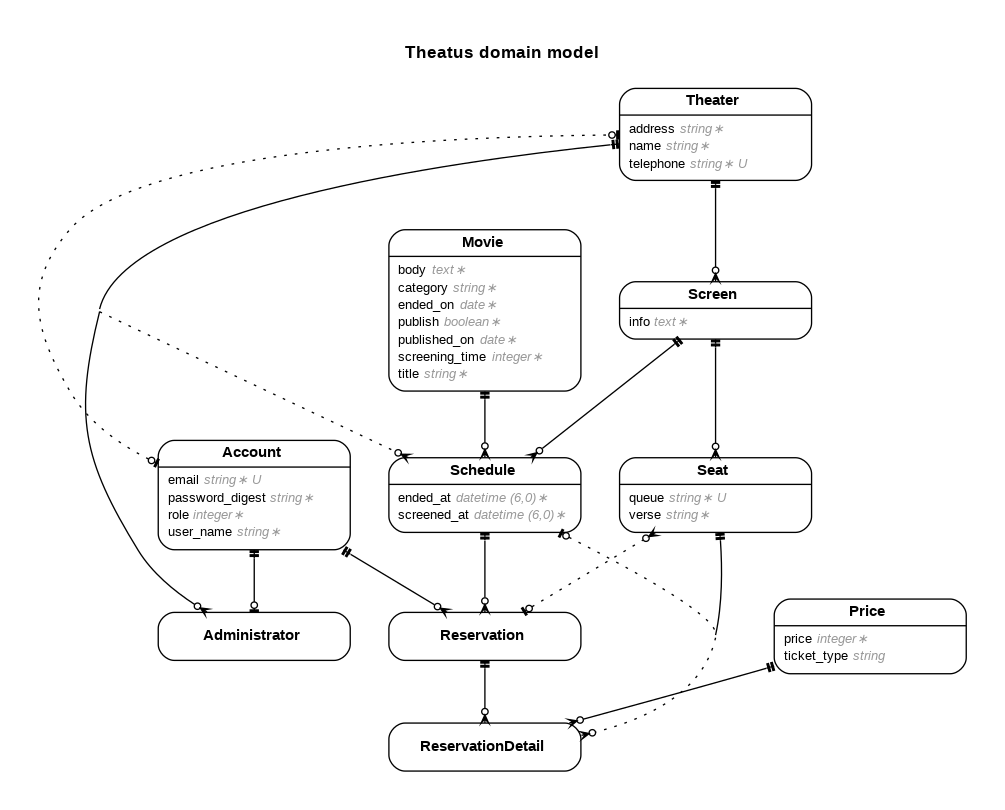
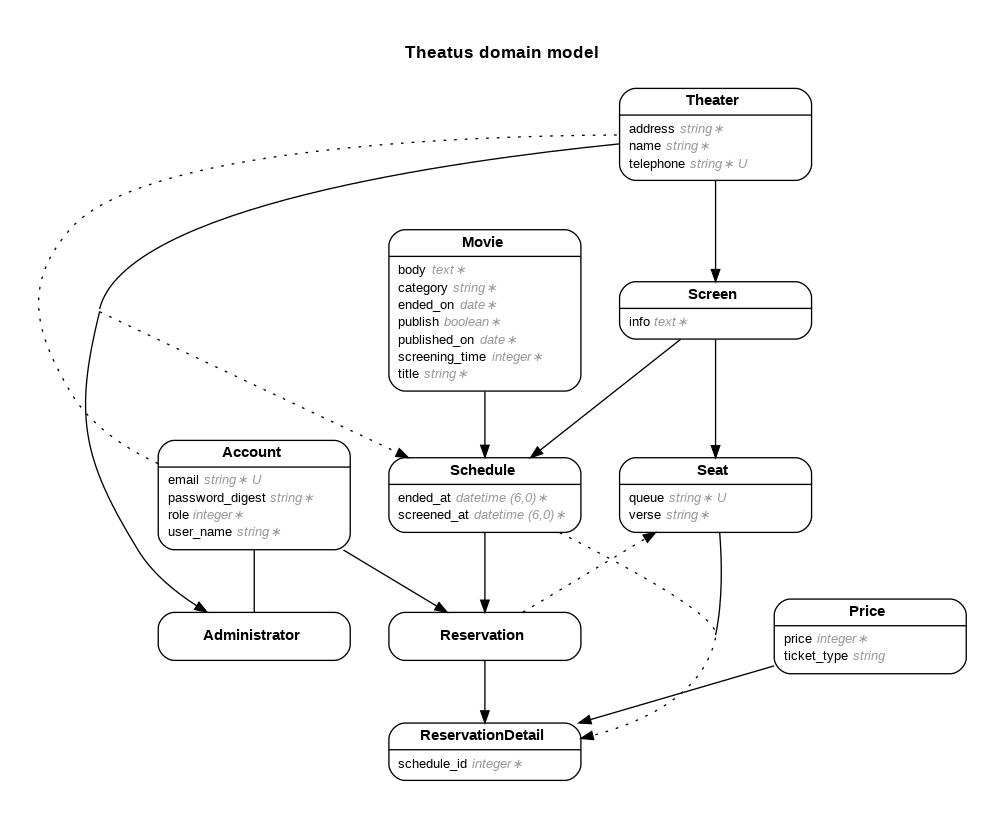
docs: 同時予約対策とレビュー対応の内容をREADMEと設計メモに反映

diff --git a/README.md b/README.md
@@ -5,7 +5,7 @@
 要件定義、ユースケース図、ER図の作成から実装までを行いました。
 チームで要件定義・ER図を共同設計し、同一仕様をもとに個人で実装しています。
 
-授業内では映画館予約システムとしての基本機能を実装し、現在は予約変更時のデータ整合性、認可、テストを中心に、より堅牢な設計へ改善を進めています。
+授業内では映画館予約システムとしての基本機能を実装しました。授業後も改善を続けており、外部のエンジニアから受けたコードレビューをもとに、予約変更時のデータ整合性、認可、同時予約への対策（DB制約）、テストを強化しています。
 
 ## アプリの概要
 
@@ -21,10 +21,12 @@
 
 ## 使用技術
 
-- Ruby on Rails 7.0.4
+- Ruby 3.1.6
+- Ruby on Rails 7.0.10
 - SQLite3
 - HTML / CSS / JavaScript
 - Minitest
+- Docker（開発環境）
 
 ## 主な機能
 
@@ -76,13 +78,32 @@
 
 授業ではトランザクション処理を詳しく扱っていなかったため、まずは更新前の予約詳細を退避し、失敗時に復元する処理を実装しました。その過程で、複数のDB更新を一つの処理単位として扱う必要性を理解しました。
 
-現在はその学びを踏まえ、ActiveRecord の transaction を用いて、予約更新処理の原子性を担保する実装へ改善しています。
+その学びを踏まえ、現在は ActiveRecord の transaction を用いて、予約更新処理の原子性を担保しています。更新に失敗しても変更前の座席が残ることは、テストで確認しています。
+
+### 同時予約への対策（DB制約）
+
+座席の重複予約は、保存前のバリデーションで確認していました。しかし、2人がほぼ同時に同じ座席を予約すると、どちらも「まだ予約されていない」という確認を通過し、二重予約になる可能性があります。そこで、DBでも重複を防ぐようにしました。
+
+もともとのテーブル構造では、上映回（`schedule_id`）は予約（`reservations`）に、座席（`seat_id`）は予約詳細（`reservation_details`）にあり、「同じ上映回・同じ座席は1件まで」という一意制約を直接設定できませんでした。
+
+レビューで示された複数の設計案を比較し、「1つの予約は1つの上映回」という現在の形を保ちつつ、変更範囲を小さくできる案を選びました。
+
+- `reservation_details` に `schedule_id` を追加し、`(schedule_id, seat_id)` に一意制約を設定
+- `schedule_id` は保存前に常に親の予約からコピーし、予約と予約詳細で上映回がずれないようにする
+- 既存データは、マイグレーションの中で親の予約から値を埋め直してから、NOT NULL と一意制約を設定
+- 一意制約に違反した場合は、エラー画面ではなく「ほかの利用者に予約された」ことを伝えて予約画面に戻す
+
+保存前のバリデーションは利用者に分かりやすく伝えるため、DBの一意制約は同時にリクエストが届いても不正なデータを保存しないため、と役割を分けて両方残しています。
+
+なお、予約と予約詳細の上映回の一致はアプリケーション側で保証しており、DBレベルでは保証していません。また、上映回ごとの座席を表すテーブルを設ける案のほうが、仮押さえや販売停止などの状態管理には拡張しやすいと考えており、今後の検討事項としています。
 
 ### 認可処理の改善
 
 予約詳細・編集・取消では、一般ユーザーが他人の予約をURLから直接操作できないように、予約取得時点で current_account に紐づく予約だけを取得するようにしています。
 
 また、未ログイン状態で予約関連画面にアクセスした場合は、ログイン画面へリダイレクトするようにしています。
+
+予約変更では、リクエストに含まれる上映回IDではなく、予約自身の上映回を使うようにしています。以前はリクエストに上映回IDを付け加えると、別のスクリーンの座席に変更できてしまう問題がありました。先にこの問題を再現するテストを書き、修正後にテストが通ることを確認しています。
 
 ### 不正なパラメータへの対策
 
@@ -97,10 +118,25 @@
 
 以下の観点をMinitestで確認しています。
 
+### 統合テスト（`test/integration`）
+
 - 未ログインでは予約一覧にアクセスできない
 - 他人の予約詳細にはアクセスできない
 - 別スクリーンの座席IDでは予約を作成できない
 - 予約更新に失敗しても変更前の座席情報が残る
+- リクエストに別の上映回IDを付けても、別スクリーンの座席に変更できない
+- 同時予約でバリデーションをすり抜けても、DBの一意制約で止まり、予約作成画面に戻る
+- 同時予約でバリデーションをすり抜けても、DBの一意制約で止まり、変更前の座席が残る
+
+同時予約の状況は、テストの中だけ座席の重複チェックを一時的に止めることで再現しています。
+
+### モデルのテスト（`test/models`）
+
+- 別の上映回IDを渡しても、予約詳細の上映回は親の予約に揃う
+- バリデーションを飛ばしても、DBの一意制約が同じ上映回・同じ座席の2件目を拒否する
+- 同じ上映回・同じ座席の2件目は、バリデーションで無効になる
+- 親の予約がない予約詳細は無効になる
+- 保存済みの予約詳細をもう一度バリデーションしても、自分自身とは衝突しない
 
 実行方法:
 
@@ -108,20 +144,24 @@
 bin/rails test
 ```
 
-## レビューで相談したい点
+## レビューを受けて対応したこと
 
-今回のコードレビューでは、特に以下を確認したいです。
+外部のエンジニアにコードレビューを依頼し、以下の点について助言を受けました。
 
-1. 予約作成・予約変更処理の責務分割は適切か
-2. Reservation と ReservationDetail の設計は、拡張性や整合性の観点で妥当か
-3. 認可処理をコントローラに書いている現在の設計を、今後どのように整理すべきか
-4. 同一上映回・同一座席への同時予約を防ぐために、DB制約やテーブル設計をどう改善すべきか
-5. Railsアプリとして、優先して改善すべき設計・実装上の課題はどこか
+| 相談した点 | 対応 | 状態 |
+|---|---|---|
+| 予約作成・予約変更処理の責務分割 | 予約変更のトランザクション部分を専用クラスに分ける方針を検討中 | 未対応 |
+| Reservation と ReservationDetail の設計 | 予約詳細に上映回を持たせ、一意制約を設定できる構造にした | 対応済み |
+| 認可処理の置き場所 | 現在の規模では before_action で扱う形を維持。条件が増えた段階で専用クラスへの切り出しを検討する | 現状維持 |
+| 同一上映回・同一座席への同時予約 | DBの一意制約を追加し、違反時の画面表示とテストを整備した | 対応済み |
+| 優先して改善すべき点 | 同時予約対策とテストを優先して対応した。テストの自動実行（CI）は今後対応する | 一部対応 |
 
 ## 今後改善したい点
 
-- 同時予約へのより堅牢な対策
+- 予約作成・予約変更処理の責務分割（専用クラスへの切り出し）
+- GitHub Actions によるテストの自動実行（CI）
+- 上映回ごとの座席を表すテーブル設計の検討（仮押さえ・販売停止などの状態管理）
+- 予約と予約詳細の上映回の一致を、DBレベルでも保証する方法の検討
+- 予約詳細の上映回を直接使う形への、既存の検索処理の整理
 - 管理者機能の責務分離
-- 認可処理の共通化
 - UIの整理
-- テストケースの追加

diff --git a/docs/reservation_flow.md b/docs/reservation_flow.md
@@ -12,6 +12,9 @@
    - 各座席に料金種別が指定されていること
    - 指定された料金種別が存在すること
 5. Reservation と ReservationDetail をトランザクション内で作成する
+   - ReservationDetail の `schedule_id` は、保存前に親の Reservation からコピーする
+   - 同じ上映回・同じ座席がすでに予約されていれば、バリデーションで弾く
+   - 同時予約でバリデーションをすり抜けた場合は、DBの一意制約で保存が失敗し、トランザクション全体がロールバックされる。この場合は「ほかの利用者に予約された」ことを伝えて予約画面に戻す
 
 ## 予約変更の流れ
 
@@ -20,14 +23,45 @@
 更新時には既存の ReservationDetail を削除し、新しい座席情報で ReservationDetail を作成し直します。
 この処理をトランザクションで囲むことで、途中で保存に失敗した場合でも、変更前の予約詳細が失われないようにしています。
 
-## 現在の制約
+対象の上映回は、リクエストのパラメータではなく、変更対象の Reservation 自身から取得します。
 
-- 同一上映回・同一座席の重複予約は、ReservationDetail のバリデーションで防いでいます。
-- ただし、同時リクエスト時の競合をDB制約で完全に防ぐ設計にはまだしていません。
-- reservation_details が schedule_id を直接持たないため、DBレベルのユニーク制約を設計するにはテーブル設計の見直しが必要です。
+削除してから作成し直す順序のため、自分の予約の座席を入れ替える場合でも、同じ上映回・同じ座席の行が一時的に2件存在することはなく、一意制約とは衝突しません。
 
-## レビューで確認したい点
+## 同時予約への対策
 
-- 予約更新処理におけるトランザクションの使い方は妥当か
-- Reservation と ReservationDetail の責務分割は適切か
-- 同時予約を防ぐためには、どのようなDB制約・テーブル設計にするのがよいか
+同一上映回・同一座席の重複予約は、次の2段階で防いでいます。
+
+| 層 | 仕組み | 役割 |
+|---|---|---|
+| アプリケーション | ReservationDetail のバリデーション（`seat_availability_check`） | 保存前に重複を見つけ、利用者に分かりやすく伝える |
+| DB | `reservation_details` の `(schedule_id, seat_id)` 一意制約 | 同時にリクエストが届いても、重複したデータを保存しない |
+
+### テーブル設計
+
+`reservation_details` に `schedule_id` を持たせ、`(schedule_id, seat_id)` に一意制約を設定しています。
+
+- `schedule_id` は NOT NULL。NULL を許すと、一意制約をすり抜ける行が作れてしまうため
+- `schedules` への外部キーを設定
+- `schedule_id` は親の Reservation からのコピーで、保存前に常に上書きする（`before_validation`）
+
+複合インデックスは `schedule_id` を先頭にしているため、「ある上映回の予約済み座席」を探す検索にも使えます。そのため、`schedule_id` 単独のインデックスは作成していません。
+
+### 既存データの移行
+
+マイグレーションでは、次の順序で処理しています。
+
+1. NULL を許可した状態で `schedule_id` を追加する
+2. 既存の予約詳細に、親の予約の `schedule_id` を書き写す
+3. 同じ上映回・同じ座席の重複がないことを確認する（あればマイグレーションを中止する）
+4. NOT NULL にする
+5. 一意制約を設定する
+
+### 現在の制約
+
+- 予約詳細と親の予約の上映回が一致していることは、アプリケーション側（`before_validation`）で保証しています。SQLを直接実行した場合までは、DBレベルで保証していません。DBで保証するには、`(reservation_id, schedule_id)` で予約を参照する複合外部キーが必要です
+- 予約のキャンセルは予約詳細の削除で表現しているため、一意制約と矛盾しません。キャンセル履歴を残す形に変える場合は、一意制約の対象を見直す必要があります
+
+## 今後の検討事項
+
+- 上映回ごとの座席を表すテーブル（例：`schedule_seats`）を設ける設計。仮押さえ・販売停止などの状態を扱いやすくなる一方、テーブルと処理が増える
+- 予約変更のトランザクション部分を専用クラスへ切り出す責務分割
